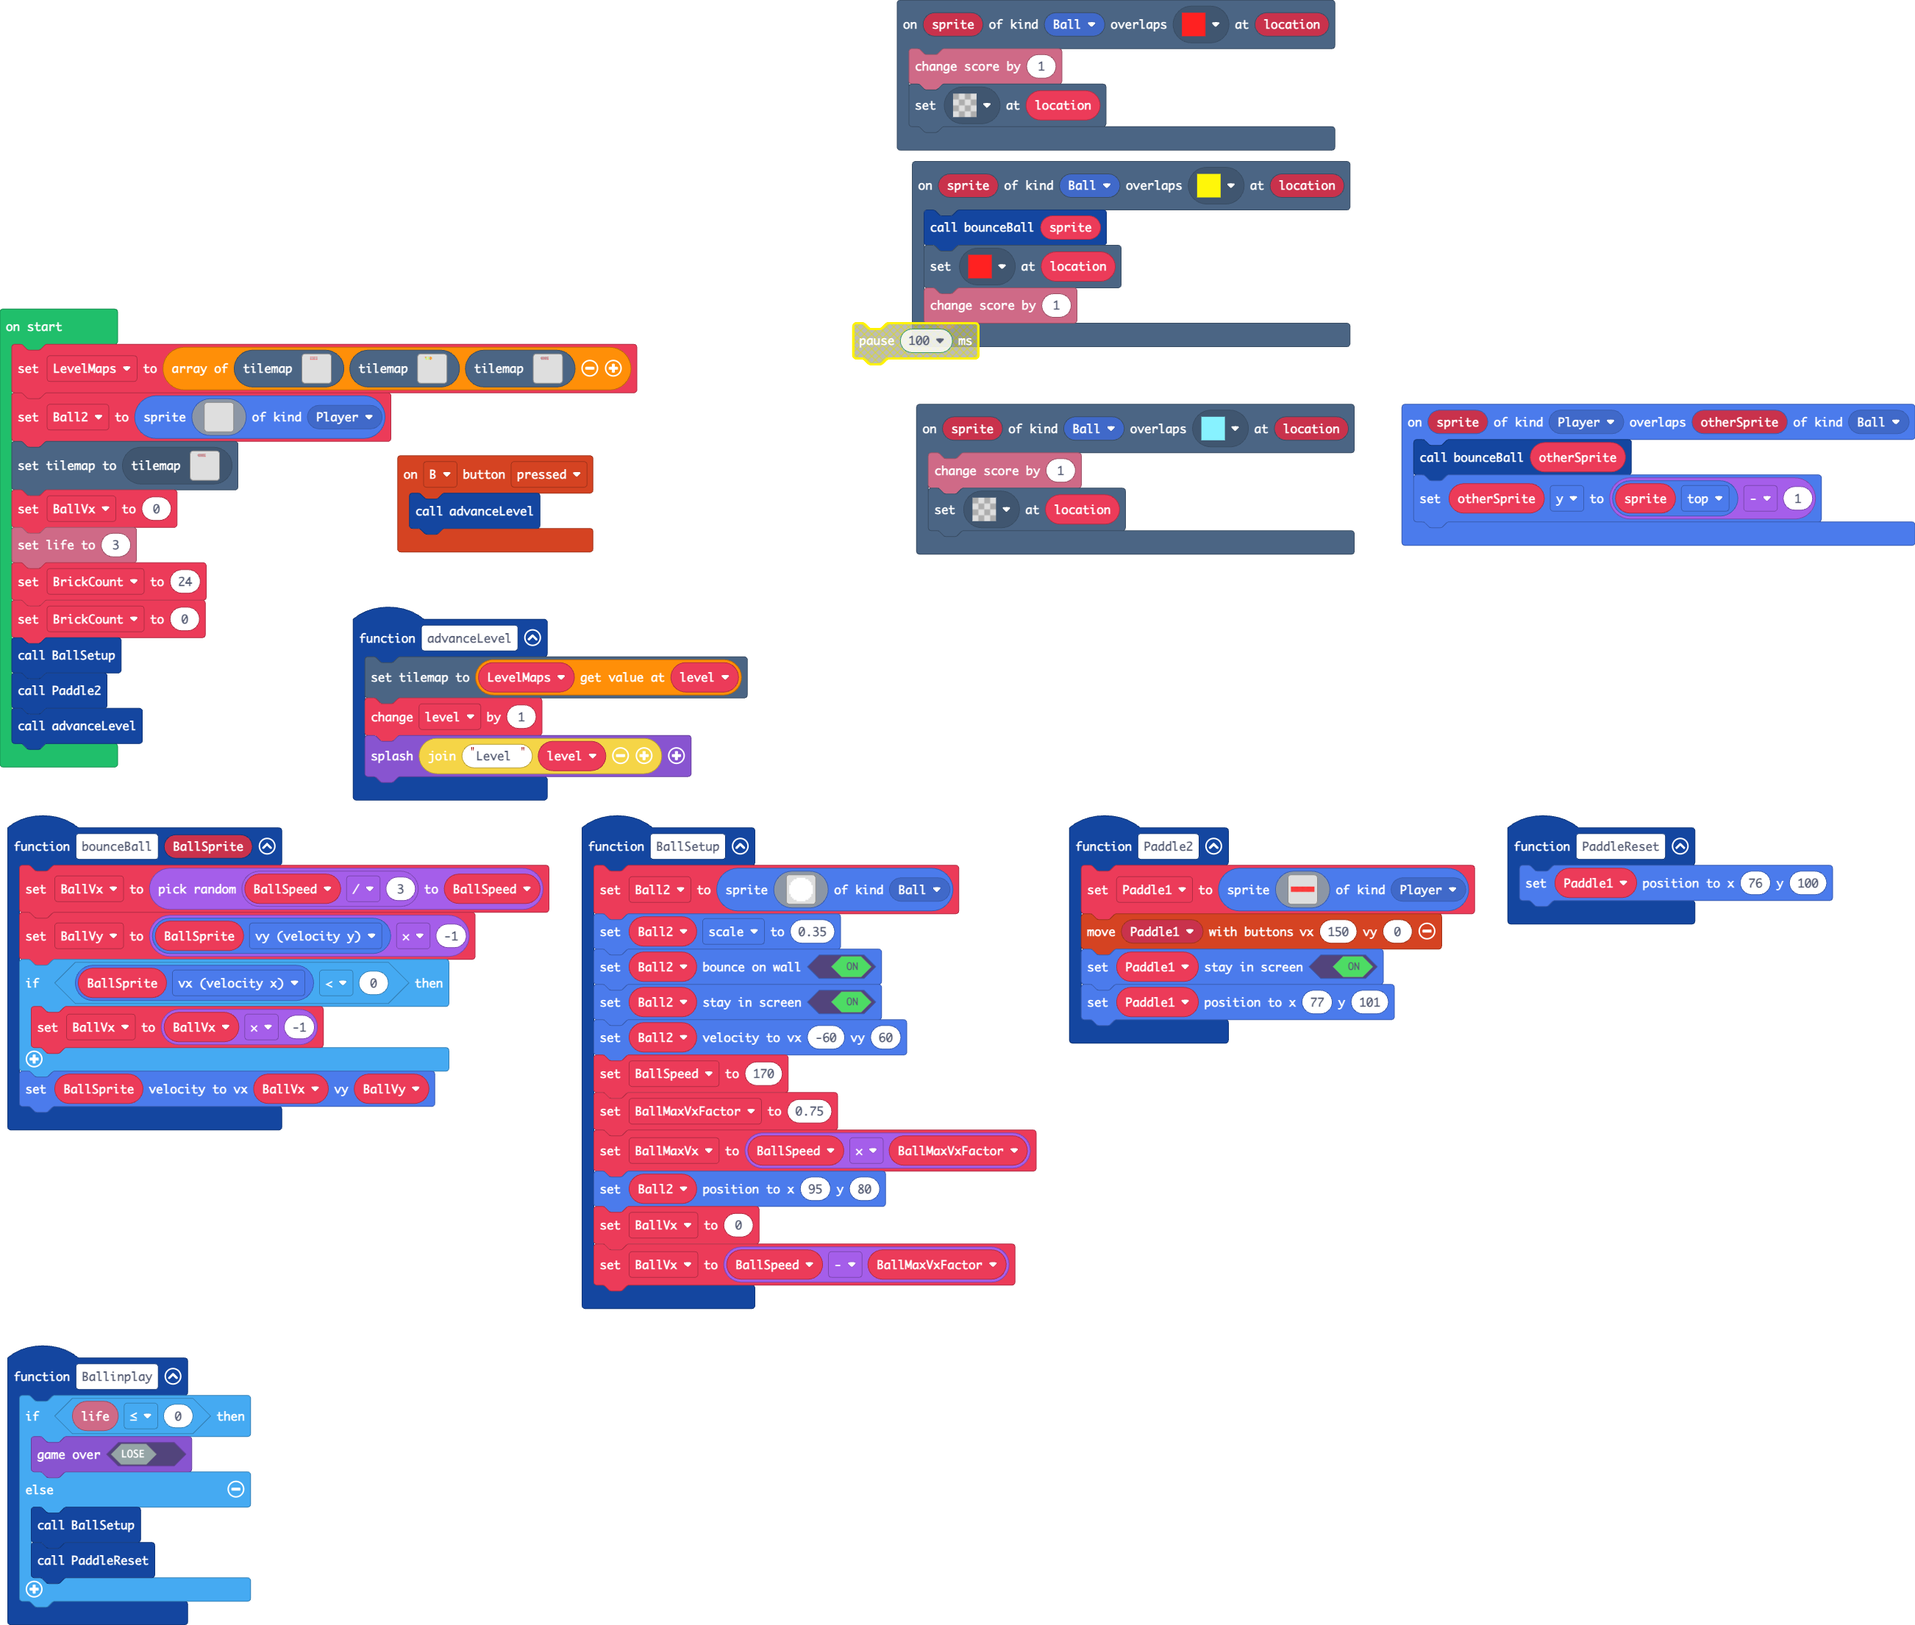
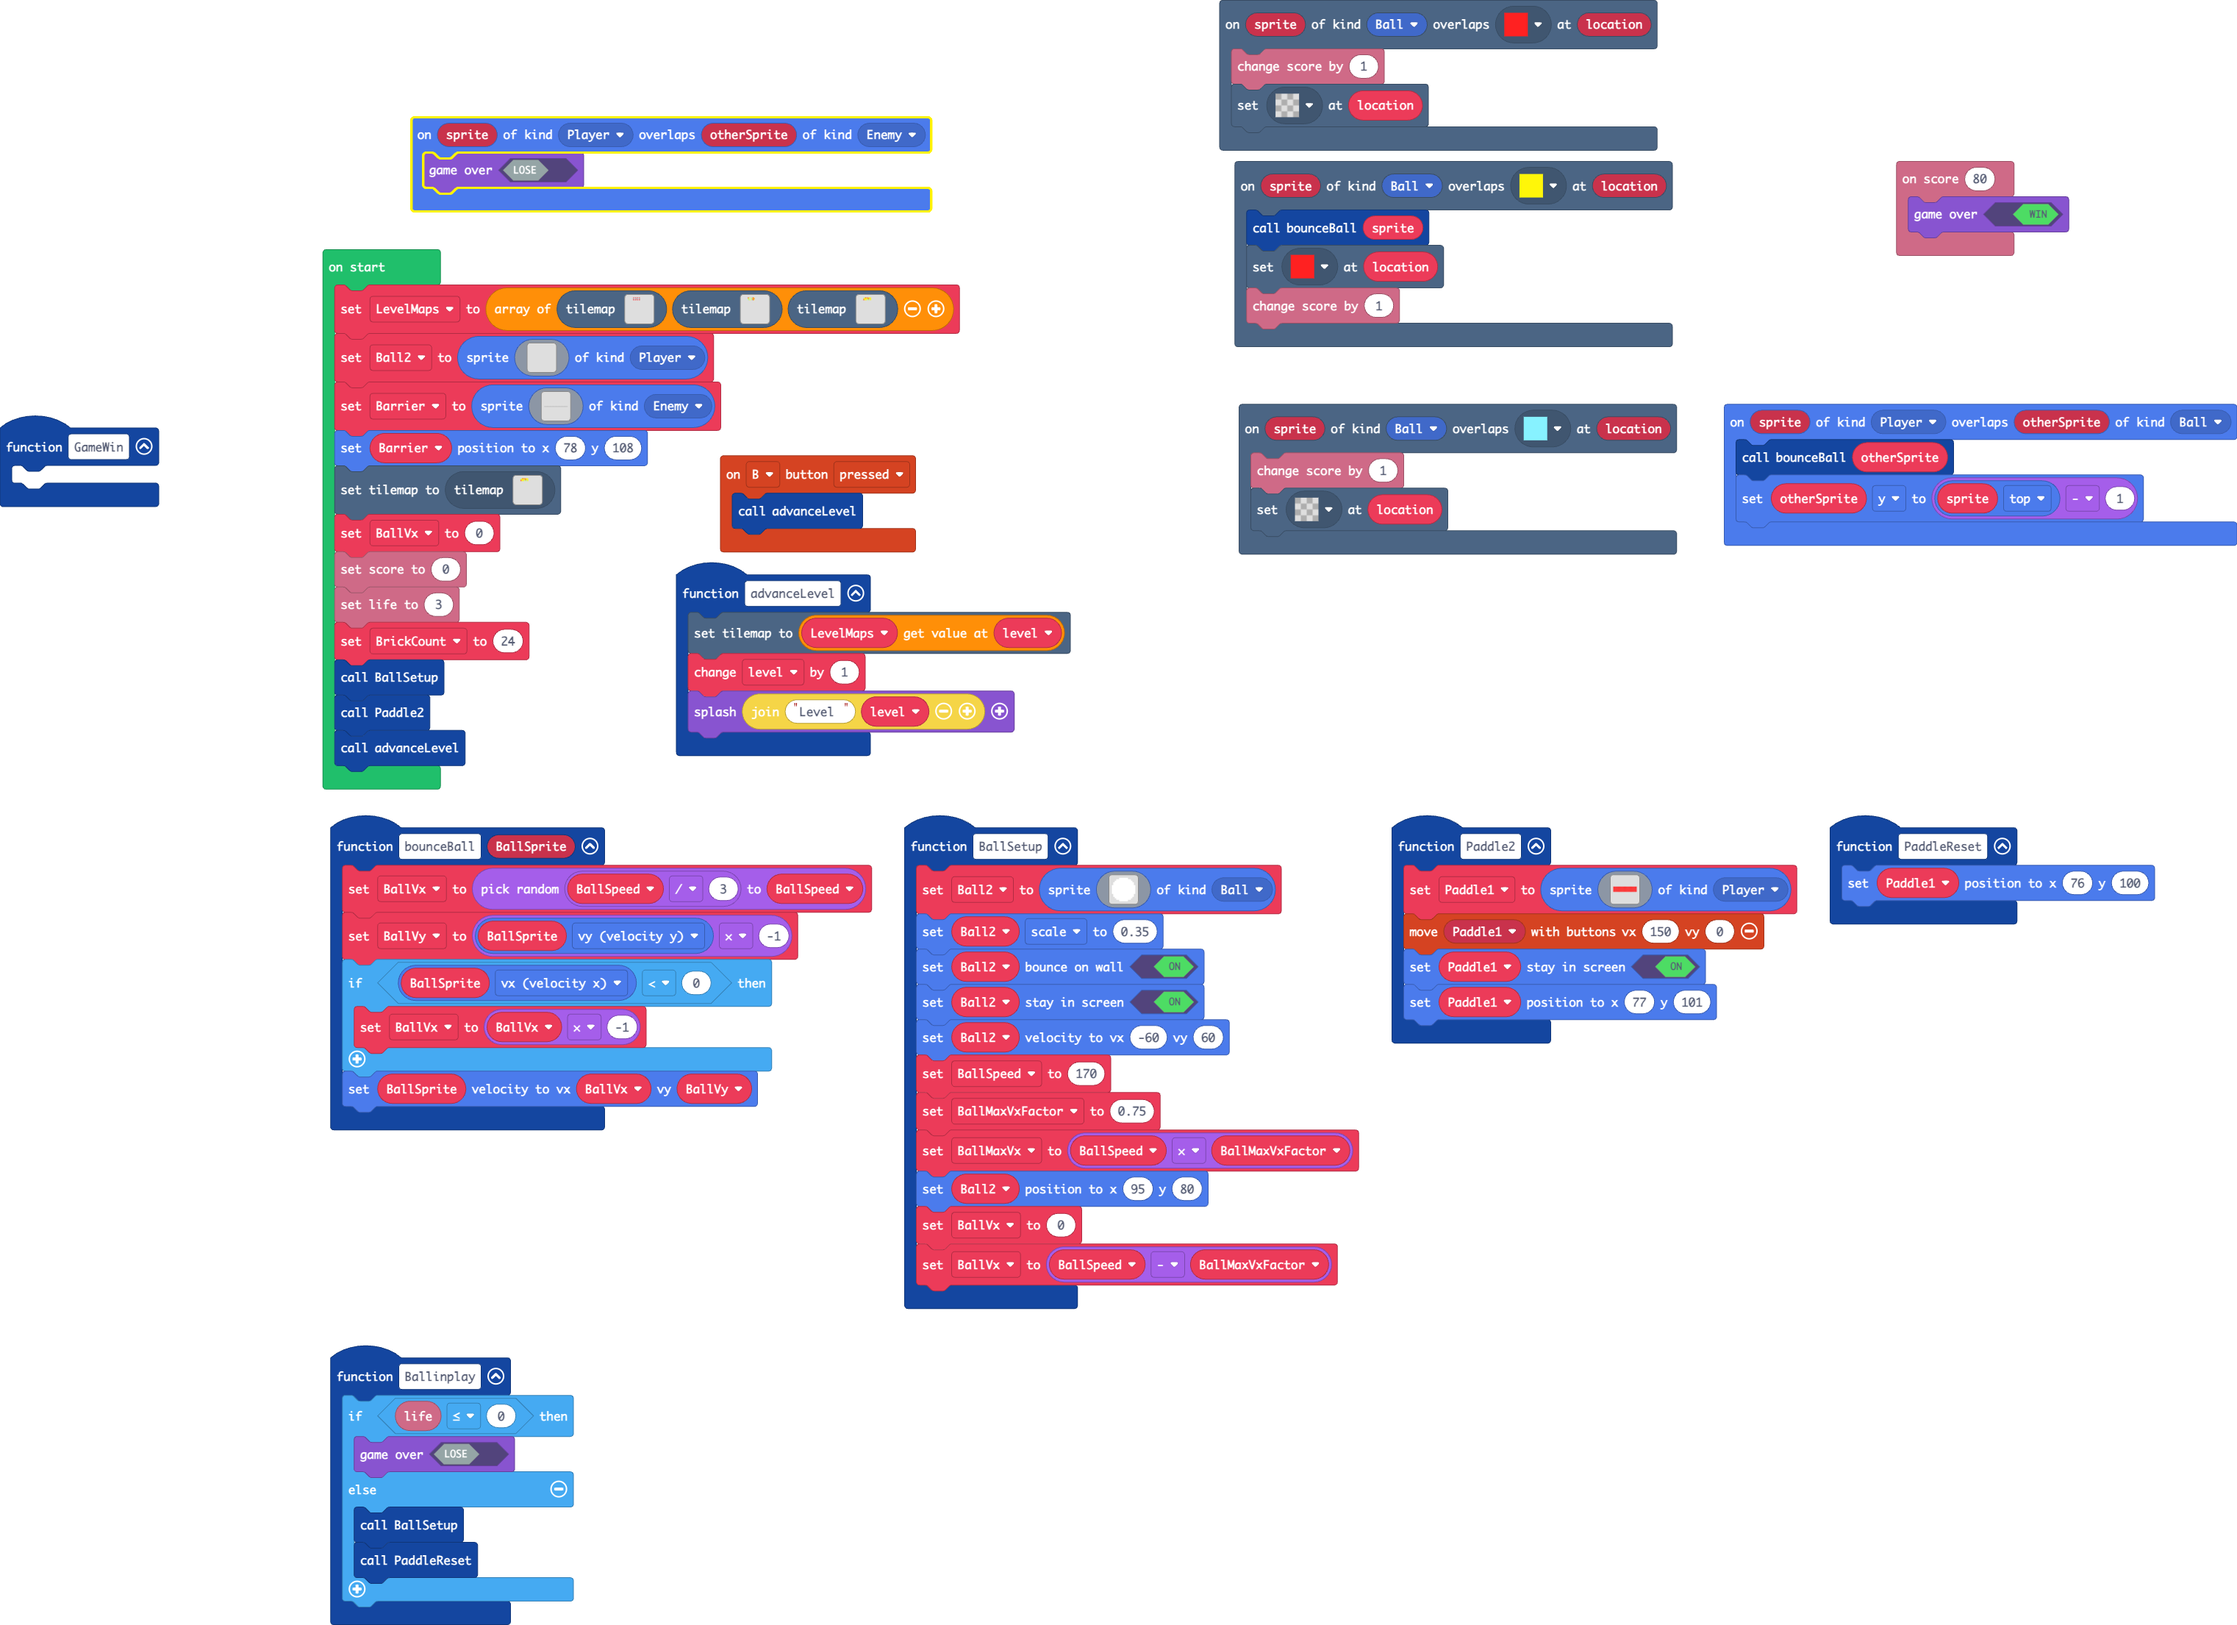
Update main.blocks, main.ts, tilemap.g.jres, tilemap.g.ts

diff --git a/tilemap.g.ts b/tilemap.g.ts
@@ -196,34 +196,6 @@ namespace myTiles {
 . . . . . . . . . . . . . . . . 
 . . . . . . . . . . . . . . . . 
 `, [myTiles.transparency16], TileScale.Sixteen);
-            case "level14":
-            case "level4":return tiles.createTilemap(hex`1000190000020102010201020100000000000000000102010201020102000000000000000002010201020102010000000000000000000000000000000000000000000000000000000000000000000000000000000000000000000000000000000000000000000000000000000000000000000000000000000000000000000000000000000000000000000000000000000000000000000000000000000000000000000000000000000000000000000000000000000000000000000000000000000000000000000000000000000000000000000000000000000000000000000000000000000000000000000000000000000000000000000000000000000000000000000000000000000000000000000000000000000000000000000000000000000000000000000000000000000000000000000000000000000000000000000000000000000000000000000000000000000000000000000000000000000000000000000000000000000000000000000000000000000000000000000000000000000000000000000000000000000000000000000000`, img`
-................
-................
-................
-................
-................
-................
-................
-................
-................
-................
-................
-................
-................
-................
-................
-................
-................
-................
-................
-................
-................
-................
-................
-................
-................
-`, [myTiles.transparency16,myTiles.tile4,myTiles.tile3], TileScale.Sixteen);
             case "level15":
             case "level15":return tiles.createTilemap(hex`1000100000000000000000000000000000000000000000000000000000000000000000000000000000000000000000000000000000000000000000000000000000000000000000000000000000000000000000000000000000000000000000000000000000000000000000000000000000000000000000000000000000000000000000000000000000000000000000000000000000000000000000000000000000000000000000000000000000000000000000000000000000000000000000000000000000000000000000000000000000000000000000000000000000000000000000000000000000000000000000000000000000000000000000000000000000000000`, img`
 . . . . . . . . . . . . . . . . 
@@ -330,6 +302,110 @@ namespace myTiles {
 `, [myTiles.transparency16,myTiles.tile4,myTiles.tile3], TileScale.Sixteen);
             case "level0":
             case "level11":return tiles.createTilemap(hex`1000190000010300030201030000000000000000000302000203030100000000000000000002030003020103000000000000000000000000000000000000000000000000000000000000000000000000000000000000000000000000000000000000000000000000000000000000000000000000000000000000000000000000000000000000000000000000000000000000000000000000000000000000000000000000000000000000000000000000000000000000000000000000000000000000000000000000000000000000000000000000000000000000000000000000000000000000000000000000000000000000000000000000000000000000000000000000000000000000000000000000000000000000000000000000000000000000000000000000000000000000000000000000000000000000000000000000000000000000000000000000000000000000000000000000000000000000000000000000000000000000000000000000000000000000000000000000000000000000000000000000000000000000000000000000`, img`
+................
+................
+................
+................
+................
+................
+................
+................
+................
+................
+................
+................
+................
+................
+................
+................
+................
+................
+................
+................
+................
+................
+................
+................
+................
+`, [myTiles.transparency16,myTiles.tile4,myTiles.tile3,myTiles.tile10], TileScale.Sixteen);
+            case "level19":
+            case "level19":return tiles.createTilemap(hex`1000100000000000000000000000000000000000000000000000000000000000000000000000000000000000000000000000000000000000000000000000000000000000000000000000000000000000000000000000000000000000000000000000000000000000000000000000000000000000000000000000000000000000000000000000000000000000000000000000000000000000000000000000000000000000000000000000000000000000000000000000000000000000000000000000000000000000000000000000000000000000000000000000000000000000000000000000000000000000000000000000000000000000000000000000000000000000`, img`
+. . . . . . . . . . . . . . . . 
+. . . . . . . . . . . . . . . . 
+. . . . . . . . . . . . . . . . 
+. . . . . . . . . . . . . . . . 
+. . . . . . . . . . . . . . . . 
+. . . . . . . . . . . . . . . . 
+. . . . . . . . . . . . . . . . 
+. . . . . . . . . . . . . . . . 
+. . . . . . . . . . . . . . . . 
+. . . . . . . . . . . . . . . . 
+. . . . . . . . . . . . . . . . 
+. . . . . . . . . . . . . . . . 
+. . . . . . . . . . . . . . . . 
+. . . . . . . . . . . . . . . . 
+. . . . . . . . . . . . . . . . 
+. . . . . . . . . . . . . . . . 
+`, [myTiles.transparency16], TileScale.Sixteen);
+            case "level20":
+            case "level20":return tiles.createTilemap(hex`1000100000000000000000000000000000000000000000000000000000000000000000000000000000000000000000000000000000000000000000000000000000000000000000000000000000000000000000000000000000000000000000000000000000000000000000000000000000000000000000000000000000000000000000000000000000000000000000000000000000000000000000000000000000000000000000000000000000000000000000000000000000000000000000000000000000000000000000000000000000000000000000000000000000000000000000000000000000000000000000000000000000000000000000000000000000000000`, img`
+. . . . . . . . . . . . . . . . 
+. . . . . . . . . . . . . . . . 
+. . . . . . . . . . . . . . . . 
+. . . . . . . . . . . . . . . . 
+. . . . . . . . . . . . . . . . 
+. . . . . . . . . . . . . . . . 
+. . . . . . . . . . . . . . . . 
+. . . . . . . . . . . . . . . . 
+. . . . . . . . . . . . . . . . 
+. . . . . . . . . . . . . . . . 
+. . . . . . . . . . . . . . . . 
+. . . . . . . . . . . . . . . . 
+. . . . . . . . . . . . . . . . 
+. . . . . . . . . . . . . . . . 
+. . . . . . . . . . . . . . . . 
+. . . . . . . . . . . . . . . . 
+`, [myTiles.transparency16], TileScale.Sixteen);
+            case "level21":
+            case "level21":return tiles.createTilemap(hex`1000100000000000000000000000000000000000000000000000000000000000000000000000000000000000000000000000000000000000000000000000000000000000000000000000000000000000000000000000000000000000000000000000000000000000000000000000000000000000000000000000000000000000000000000000000000000000000000000000000000000000000000000000000000000000000000000000000000000000000000000000000000000000000000000000000000000000000000000000000000000000000000000000000000000000000000000000000000000000000000000000000000000000000000000000000000000000`, img`
+. . . . . . . . . . . . . . . . 
+. . . . . . . . . . . . . . . . 
+. . . . . . . . . . . . . . . . 
+. . . . . . . . . . . . . . . . 
+. . . . . . . . . . . . . . . . 
+. . . . . . . . . . . . . . . . 
+. . . . . . . . . . . . . . . . 
+. . . . . . . . . . . . . . . . 
+. . . . . . . . . . . . . . . . 
+. . . . . . . . . . . . . . . . 
+. . . . . . . . . . . . . . . . 
+. . . . . . . . . . . . . . . . 
+. . . . . . . . . . . . . . . . 
+. . . . . . . . . . . . . . . . 
+. . . . . . . . . . . . . . . . 
+. . . . . . . . . . . . . . . . 
+`, [myTiles.transparency16], TileScale.Sixteen);
+            case "level22":
+            case "level22":return tiles.createTilemap(hex`1000100000000000000000000000000000000000000000000000000000000000000000000000000000000000000000000000000000000000000000000000000000000000000000000000000000000000000000000000000000000000000000000000000000000000000000000000000000000000000000000000000000000000000000000000000000000000000000000000000000000000000000000000000000000000000000000000000000000000000000000000000000000000000000000000000000000000000000000000000000000000000000000000000000000000000000000000000000000000000000000000000000000000000000000000000000000000`, img`
+. . . . . . . . . . . . . . . . 
+. . . . . . . . . . . . . . . . 
+. . . . . . . . . . . . . . . . 
+. . . . . . . . . . . . . . . . 
+. . . . . . . . . . . . . . . . 
+. . . . . . . . . . . . . . . . 
+. . . . . . . . . . . . . . . . 
+. . . . . . . . . . . . . . . . 
+. . . . . . . . . . . . . . . . 
+. . . . . . . . . . . . . . . . 
+. . . . . . . . . . . . . . . . 
+. . . . . . . . . . . . . . . . 
+. . . . . . . . . . . . . . . . 
+. . . . . . . . . . . . . . . . 
+. . . . . . . . . . . . . . . . 
+. . . . . . . . . . . . . . . . 
+`, [myTiles.transparency16], TileScale.Sixteen);
+            case "level14":
+            case "level4":return tiles.createTilemap(hex`1000190000020301030103030300000000000000000303030303010303000000000000000001030303020302030000000000000000000000000000000000000000000000000000000000000000000000000000000000000000000000000000000000000000000000000000000000000000000000000000000000000000000000000000000000000000000000000000000000000000000000000000000000000000000000000000000000000000000000000000000000000000000000000000000000000000000000000000000000000000000000000000000000000000000000000000000000000000000000000000000000000000000000000000000000000000000000000000000000000000000000000000000000000000000000000000000000000000000000000000000000000000000000000000000000000000000000000000000000000000000000000000000000000000000000000000000000000000000000000000000000000000000000000000000000000000000000000000000000000000000000000000000000000000000000`, img`
 ................
 ................
 ................

diff --git a/main.ts b/main.ts
@@ -59,6 +59,9 @@ function bounceBall (BallSprite: Sprite) {
 function PaddleReset () {
     Paddle1.setPosition(76, 100)
 }
+info.onScore(80, function () {
+    game.gameOver(true)
+})
 scene.onOverlapTile(SpriteKind.Ball, assets.tile`myTile8`, function (sprite, location) {
     bounceBall(sprite)
     tiles.setTileAt(location, assets.tile`myTile6`)
@@ -68,6 +71,9 @@ scene.onOverlapTile(SpriteKind.Ball, assets.tile`myTile1`, function (sprite, loc
     info.changeScoreBy(1)
     tiles.setTileAt(location, assets.tile`transparency16`)
 })
+function GameWin () {
+	
+}
 function Ballinplay () {
     if (info.life() <= 0) {
         game.gameOver(false)
@@ -87,6 +93,9 @@ function Paddle2 () {
     Paddle1.setStayInScreen(true)
     Paddle1.setPosition(77, 101)
 }
+sprites.onOverlap(SpriteKind.Player, SpriteKind.Enemy, function (sprite, otherSprite) {
+    game.gameOver(false)
+})
 let Paddle1: Sprite = null
 let BallVy = 0
 let level = 0
@@ -115,11 +124,30 @@ Ball2 = sprites.create(img`
     . . . . . . . . . . . . . . . . 
     . . . . . . . . . . . . . . . . 
     `, SpriteKind.Player)
+let Barrier = sprites.create(img`
+    ........................................................................................................................................................................................................
+    ........................................................................................................................................................................................................
+    ........................................................................................................................................................................................................
+    ........................................................................................................................................................................................................
+    ........................................................................................................................................................................................................
+    ........................................................................................................................................................................................................
+    ........................................................................................................................................................................................................
+    ........................................................................................................................................................................................................
+    ........................................................................................................................................................................................................
+    ........................................................................................................................................................................................................
+    ........................................................................................................................................................................................................
+    ........................................................................................................................................................................................................
+    ........................................................................................................................................................................................................
+    ........................................................................................................................................................................................................
+    ........................................................................................................................................................................................................
+    ffffffffffffffffffffffffffffffffffffffffffffffffffffffffffffffffffffffffffffffffffffffffffffffffffffffffffffffffffffffffffffffffffffffffffffffffffffffffffffffffffffffffffffffffffffffffffffffffffffffff
+    `, SpriteKind.Enemy)
+Barrier.setPosition(78, 108)
 tiles.setCurrentTilemap(tilemap`level14`)
 BallVx = 0
+info.setScore(0)
 info.setLife(3)
 let BrickCount = 24
-BrickCount = 0
 BallSetup()
 Paddle2()
 advanceLevel()
